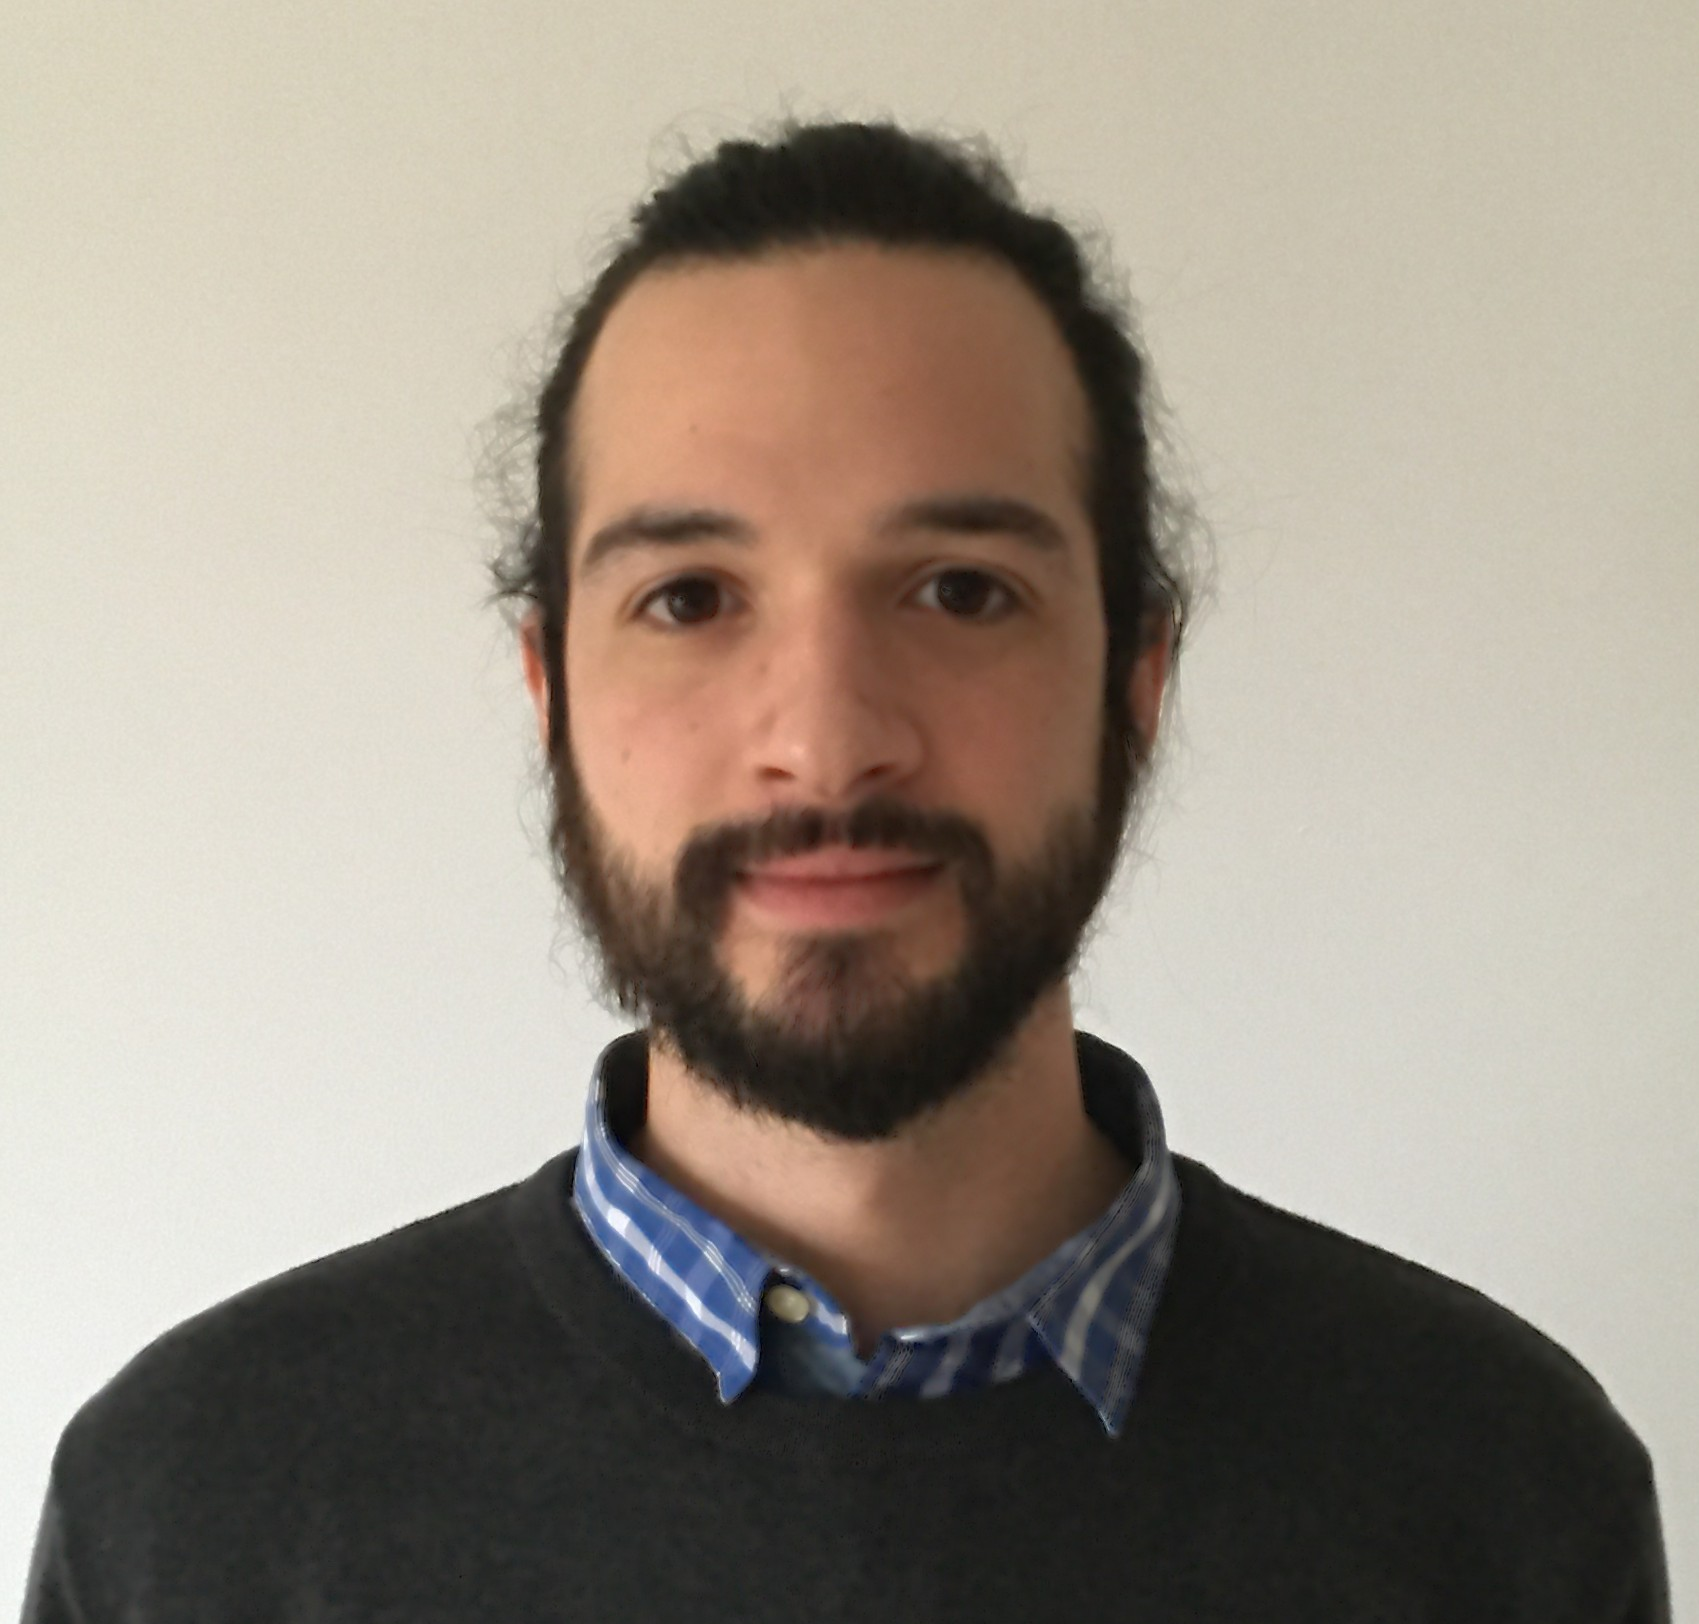
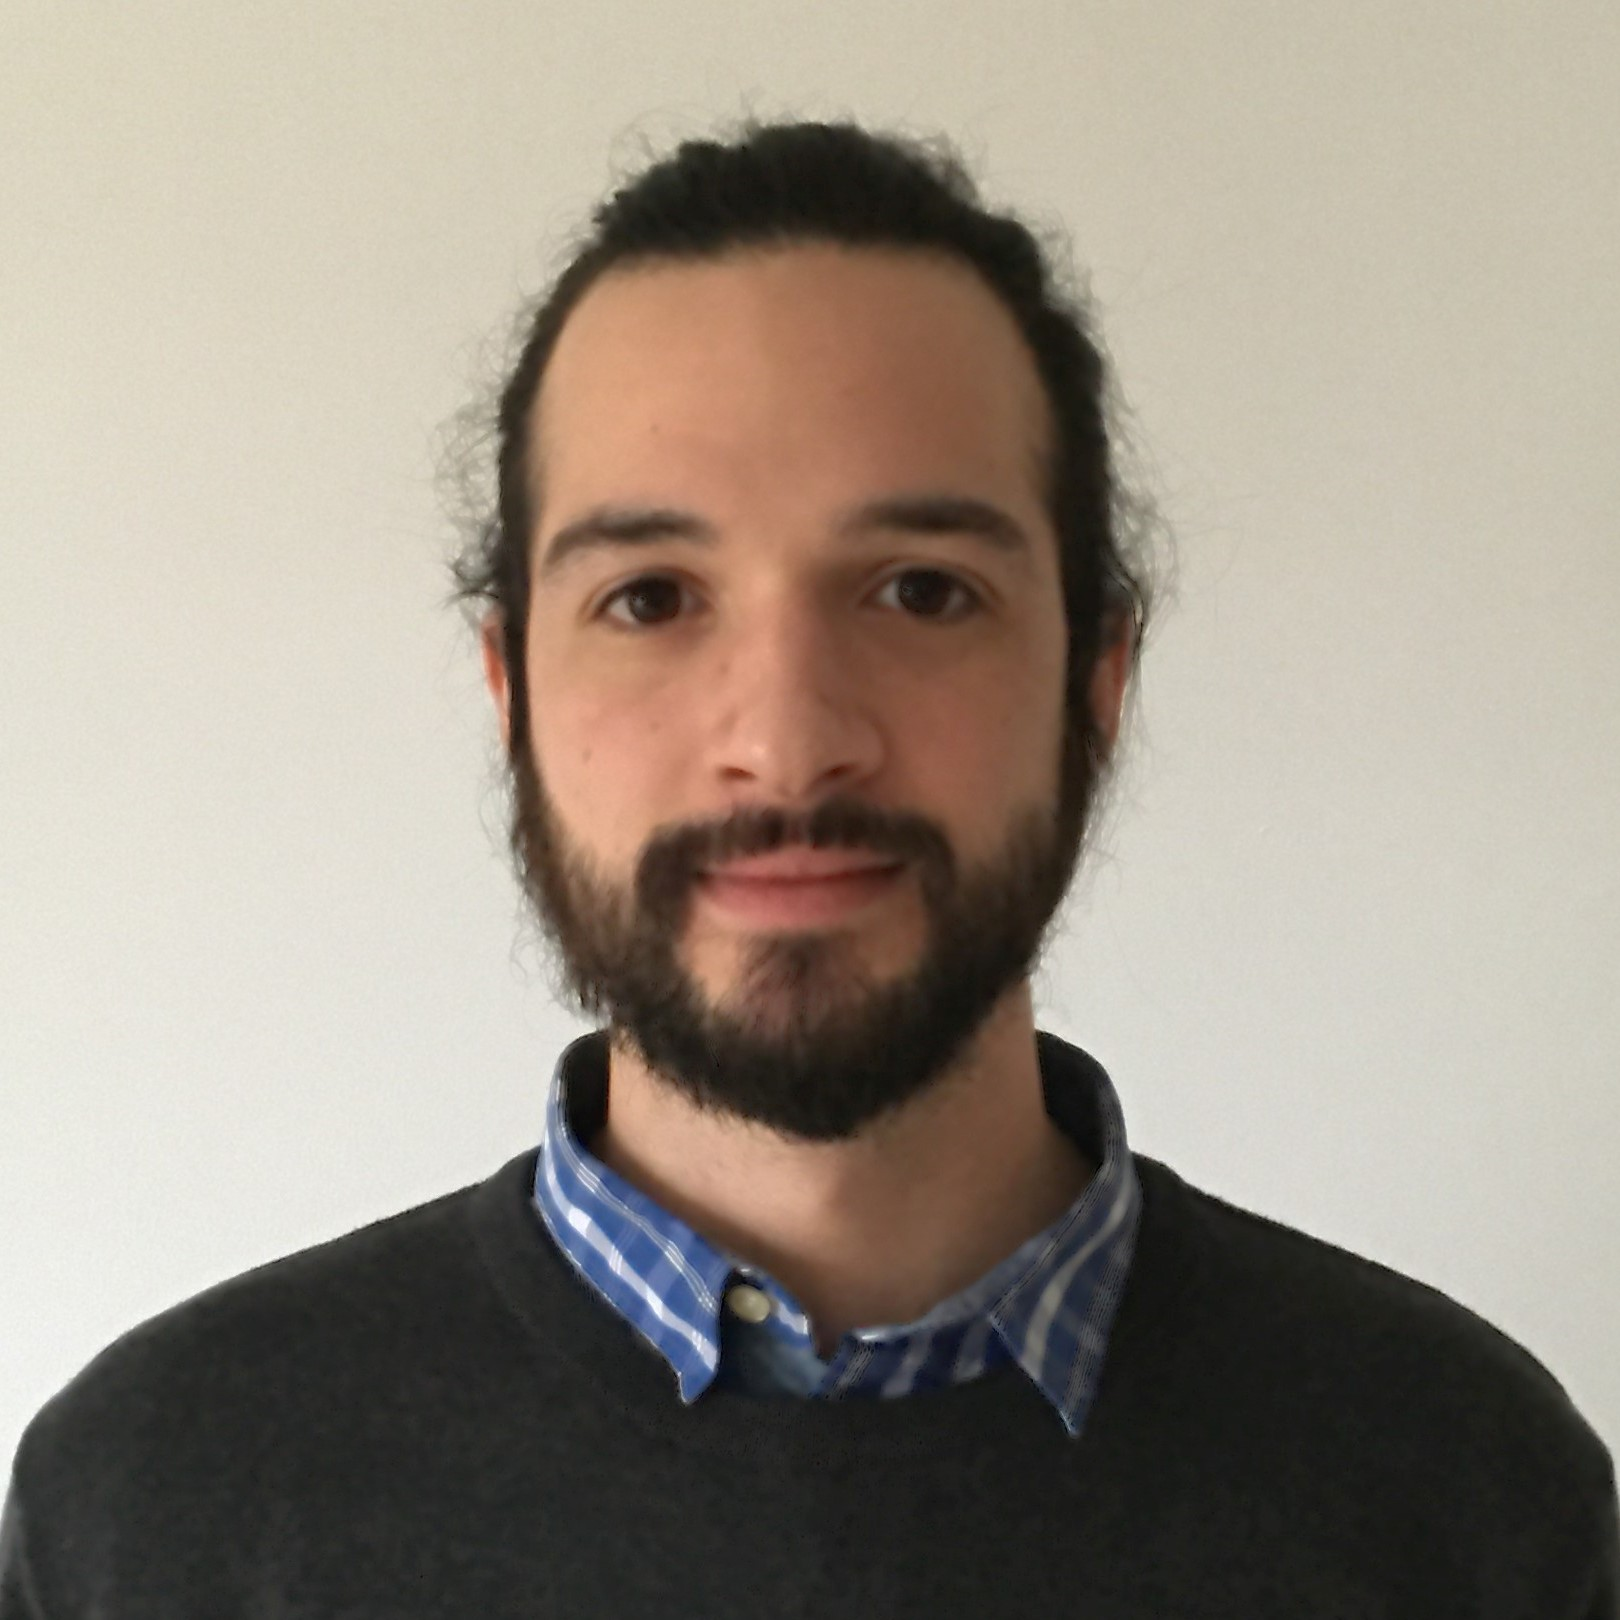
replace front picture

diff --git a/index.html b/index.html
@@ -76,7 +76,7 @@
 
 					<!-- Image -->
 					<a class="image featured">
-						<img src="images/reffen_drone.jpg" alt="">
+						<img src="images/Kroyersplads_MartinHeiberg.jpg" alt="Photo: Martin Heiberg">
 						<!-- <img src="images/chairs1.jpg" alt=""> -->
 					</a>
 
